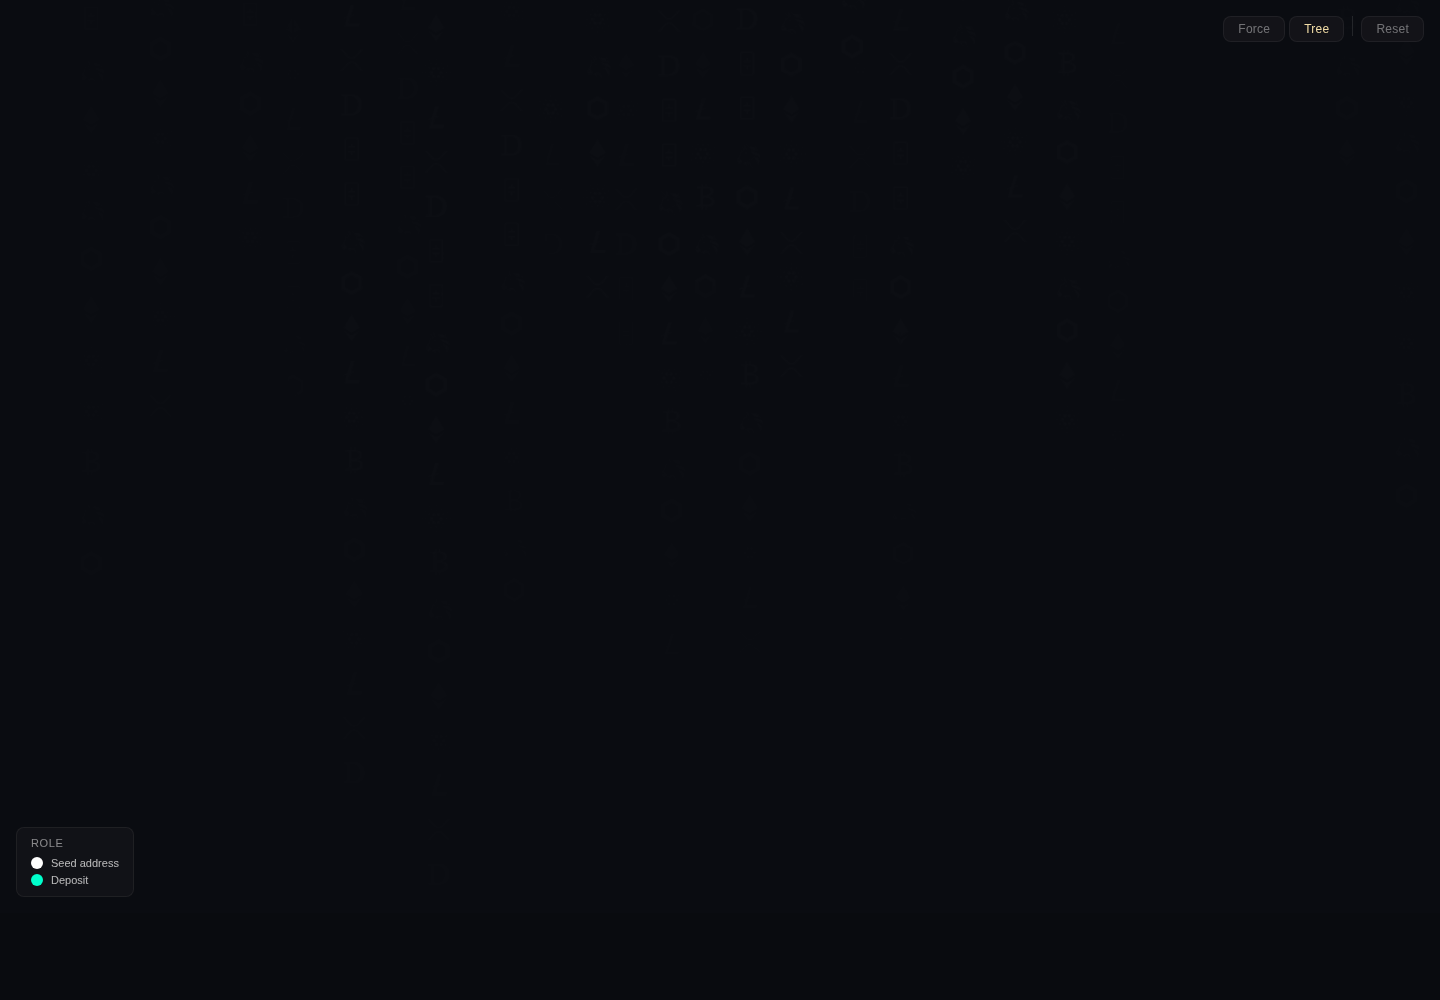
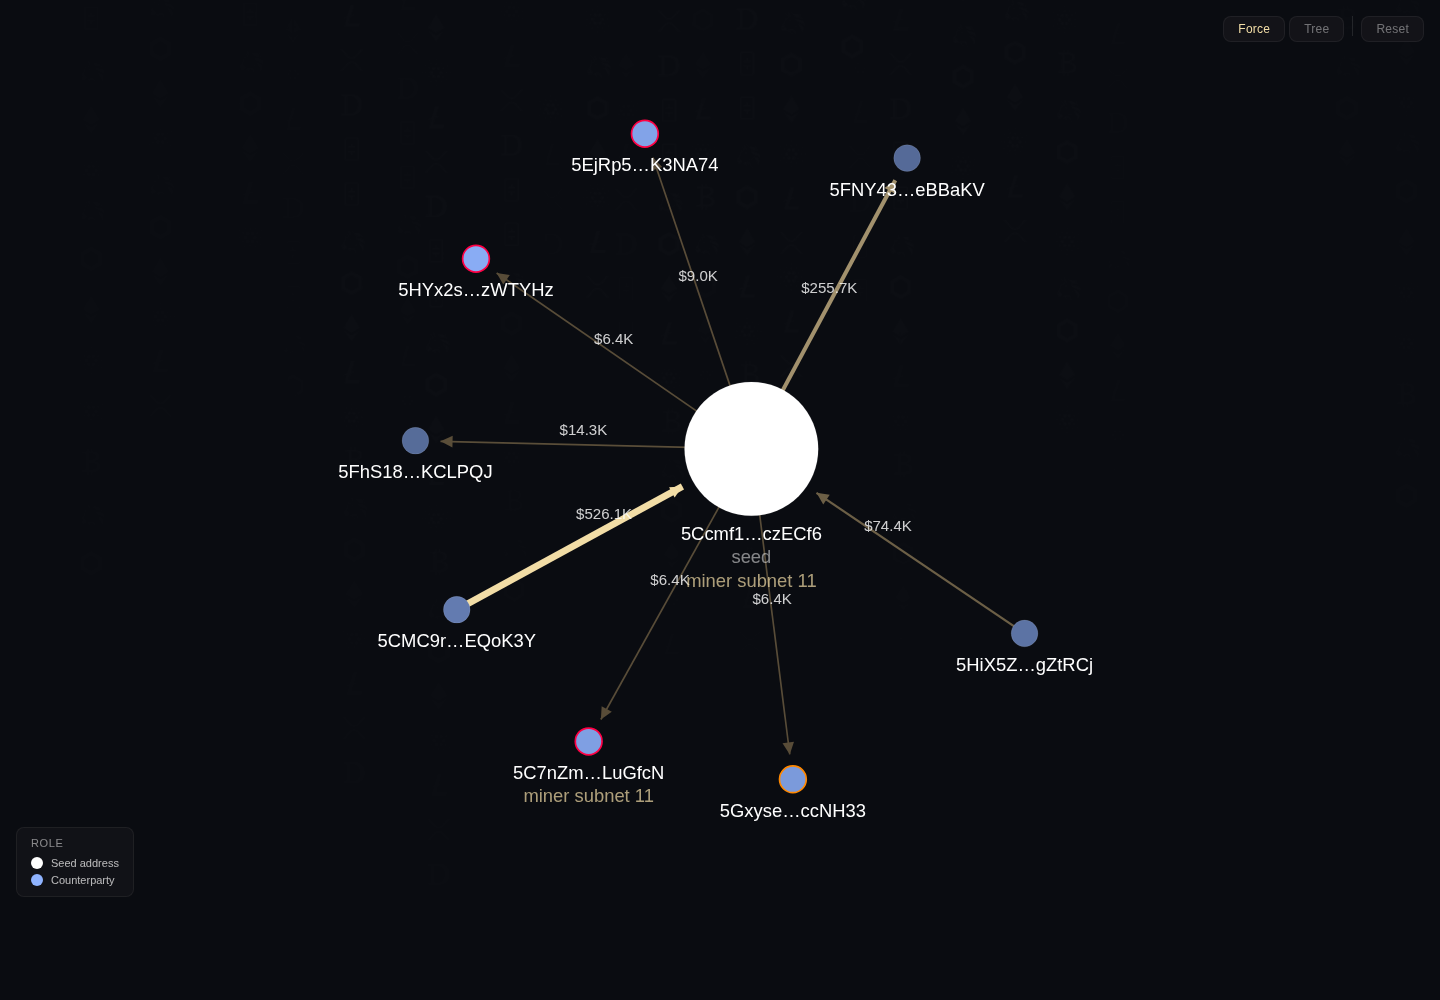
fix graph screenshots and claude desktop reload docs

diff --git a/dist/templates/graph.html b/dist/templates/graph.html
@@ -221,8 +221,8 @@ var ROLE_FILLS = {
   scammer:      '#ff0055',  // neon red — danger
   exchange:     '#0066ff',  // strong neon blue — institutional
   deposit:      '#00ffcc',  // neon cyan — deposit
-  intermediary: null,
-  counterparty: null,
+  intermediary: '#b38cff',  // violet — routed intermediary
+  counterparty: '#8fb3ff',  // blue — adjacent counterparty
 };
 // Risk indicators — drawn as ! inside node, not borders
 var RISK_COLORS = {
@@ -667,6 +667,7 @@ function applyDataMode() {
     var o = {address:n.address, address_type:n.address_type||'wallet', labels:n.labels||[],
              flow_in_usd:n.flow_in_usd, flow_out_usd:n.flow_out_usd,
              role:n.role||null, risk_level:n.risk_level||null,
+             risk_score: typeof n.risk_score === 'number' ? n.risk_score : null,
              pattern_flags:n.pattern_flags||[], x:0, y:0, r:DEF_R};
     nodeMap[o.address] = o;
     return o;

diff --git a/src/viz/templates/graph.html b/src/viz/templates/graph.html
@@ -221,8 +221,8 @@ var ROLE_FILLS = {
   scammer:      '#ff0055',  // neon red — danger
   exchange:     '#0066ff',  // strong neon blue — institutional
   deposit:      '#00ffcc',  // neon cyan — deposit
-  intermediary: null,
-  counterparty: null,
+  intermediary: '#b38cff',  // violet — routed intermediary
+  counterparty: '#8fb3ff',  // blue — adjacent counterparty
 };
 // Risk indicators — drawn as ! inside node, not borders
 var RISK_COLORS = {
@@ -667,6 +667,7 @@ function applyDataMode() {
     var o = {address:n.address, address_type:n.address_type||'wallet', labels:n.labels||[],
              flow_in_usd:n.flow_in_usd, flow_out_usd:n.flow_out_usd,
              role:n.role||null, risk_level:n.risk_level||null,
+             risk_score: typeof n.risk_score === 'number' ? n.risk_score : null,
              pattern_flags:n.pattern_flags||[], x:0, y:0, r:DEF_R};
     nodeMap[o.address] = o;
     return o;

diff --git a/tests/viz-html-generator.test.ts b/tests/viz-html-generator.test.ts
@@ -116,6 +116,17 @@ describe('generateHtml (VIZ-02) — graph.html template', () => {
     expect(html).toContain("localStorage.setItem('graph_view_' + storageId")
     expect(html).not.toContain("edgeMode")
   })
+
+  it('graph template keeps risk score and visible adjacent-node role colors', async () => {
+    const { generateHtml } = await import('../src/viz/html-generator.js')
+    const { GraphData } = await import('../src/viz/graph-model.js')
+    const data = GraphData.parse(validData)
+    const html = generateHtml(data, 'Test Viz')
+
+    expect(html).toContain("counterparty: '#8fb3ff'")
+    expect(html).toContain("intermediary: '#b38cff'")
+    expect(html).toContain("risk_score: typeof n.risk_score === 'number' ? n.risk_score : null")
+  })
 })
 
 describe('transformToGraphHtml (data schema mapping)', () => {

diff --git a/src/cli.ts b/src/cli.ts
@@ -80,10 +80,10 @@ program
           } else if (result.changed) {
             console.log(`Updated:               yes`)
             if (result.backupPath) console.log(`Backup:                ${result.backupPath}`)
-            console.log('Restart Claude Desktop to reload MCP servers.')
           } else {
             console.log('Updated:               already up to date')
           }
+          console.log('Reload required:       quit and reopen Claude Desktop; it does not hot-reload MCP config.')
         } catch (err) {
           console.error((err as Error).message)
           process.exit(1)

diff --git a/README.md b/README.md
@@ -109,7 +109,7 @@ Wallet top-up page, served by the copied `infra/mcp-proxy` wallet UI:
 
 ![Chain Insights wallet top-up page](docs/images/topup-page.png)
 
-Graph visualization loaded from a local MCP graph artifact:
+Graph visualization loaded from a visible subset of a local UAT graph artifact:
 
 ![Chain Insights graph visualization](docs/images/graph-visualization.png)
 
@@ -393,7 +393,9 @@ chain-insights setup claude-desktop --dry-run
 chain-insights setup claude-desktop
 ```
 
-The setup command updates only the `mcpServers.chain-insights` entry in `claude_desktop_config.json`, preserves existing preferences and other MCP servers, and writes a backup before changing an existing config. Restart Claude Desktop after running it.
+The setup command updates only the `mcpServers.chain-insights` entry in `claude_desktop_config.json`, preserves existing preferences and other MCP servers, and writes a backup before changing an existing config.
+
+Claude Desktop does not hot-reload this file. Fully quit and reopen Claude Desktop after running setup. If the desktop UI still shows `/home/aphex5/.local/bin/chain-insights-mcp start`, the app is still using the old in-memory server entry from before setup.
 
 Equivalent manual config shape:
 
@@ -422,6 +424,13 @@ npx @modelcontextprotocol/inspector \
   --config ~/.config/Claude/claude_desktop_config.json \
   --server chain-insights \
   --method resources/list
+```
+
+On Linux, this shows whether a desktop process was already running before setup and therefore needs a restart:
+
+```bash
+pgrep -af claude-desktop
+tail -80 ~/.config/Claude/logs/mcp-server-chain-insights.log
 ```
 
 Expected MCP app resources:
